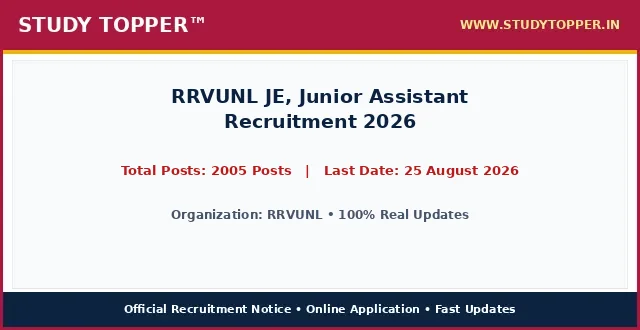
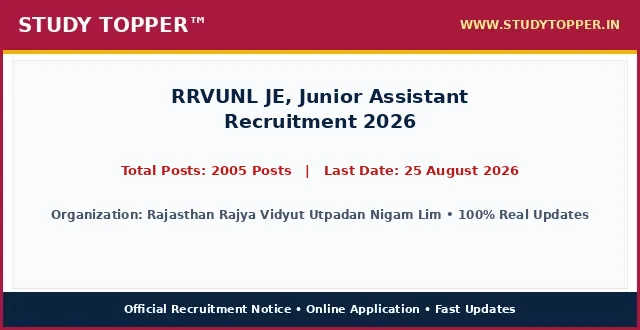
chore(lifecycle): daily auto-sort vacancies and update active dates

Changed region(s): [[0.0625, 0.6364, 0.9375, 0.6667]]

diff --git a/pages/rrvunl-je-junior-assistant-2026.html b/pages/rrvunl-je-junior-assistant-2026.html
@@ -987,12 +987,12 @@ ul.wp-block-latest-posts a:hover {
 <main class="site-main" id="main">
 <div class="gb-container gb-container-b39c368c">
 <h1 class="gb-headline gb-headline-e52a0102 gb-headline-text" style="font-size: 22px; font-weight: 700; color: #0000cd; text-align: left; margin: 8px 0 4px 0; line-height: 1.3; width: 100%; font-family: '-apple-system, BlinkMacSystemFont, 'Segoe UI', Roboto, 'Helvetica Neue', Arial, sans-serif', Times, serif, Hind, sans-serif;">RRVUNL JE, Junior Assistant Recruitment 2026</h1>
-<div class="gb-container gb-container-659bd175"><p style="color: #cd0808; font-weight: 700; font-size: 15px; margin: 2px 0 7px 0; text-align: left; font-family: '-apple-system, BlinkMacSystemFont, 'Segoe UI', Roboto, 'Helvetica Neue', Arial, sans-serif', Times, serif, Hind, sans-serif;">Post Date: August 22, 2026 12:36 PM</p></div>
-<p class="gb-headline gb-headline-550ae316 short_Details gb-headline-text" style="width: 100%; max-width: 100%; font-size: 16.8px; line-height: 1.55; color: #000000; text-align: justify; text-justify: inter-word; margin: 8px 0 14px 0; display: block; font-family: '-apple-system, BlinkMacSystemFont, 'Segoe UI', Roboto, 'Helvetica Neue', Arial, sans-serif', Times, serif, Hind, sans-serif;"><strong style="color: #0000cd;">RRVUNL</strong> has officially published the recruitment notice <strong style="color: #cd0808;">RRVUNL JE, Junior Assistant Recruitment 2026</strong> under notification number 2026. Online applications are invited for 2005 Posts across multiple departments and cadre positions. Interested candidates possessing the requisite educational qualifications and falling between 18 Years to 40 Years can complete their online registration before the application deadline of 25 August 2026. Applicants should read the eligibility criteria, category reservation rules, and exam scheme thoroughly before submitting applications.</p>
+<div class="gb-container gb-container-659bd175"><p style="color: #cd0808; font-weight: 700; font-size: 15px; margin: 2px 0 7px 0; text-align: left; font-family: '-apple-system, BlinkMacSystemFont, 'Segoe UI', Roboto, 'Helvetica Neue', Arial, sans-serif', Times, serif, Hind, sans-serif;">Post Date: August 22, 2026 12:46 PM</p></div>
+<p class="gb-headline gb-headline-550ae316 short_Details gb-headline-text" style="width: 100%; max-width: 100%; font-size: 16.8px; line-height: 1.55; color: #000000; text-align: justify; text-justify: inter-word; margin: 8px 0 14px 0; display: block; font-family: '-apple-system, BlinkMacSystemFont, 'Segoe UI', Roboto, 'Helvetica Neue', Arial, sans-serif', Times, serif, Hind, sans-serif;"><strong style="color: #0000cd;">Rajasthan Rajya Vidyut Utpadan Nigam Limited (RVUNL)</strong> has officially published the recruitment notice <strong style="color: #cd0808;">RRVUNL JE, Junior Assistant Recruitment 2026</strong> under notification number Official Notification 2026. Online applications are invited for 2005 Posts across multiple departments and cadre positions. Interested candidates possessing the requisite educational qualifications and falling between 18 Years to 40 Years can complete their online registration before the application deadline of 25 August 2026. Applicants should read the eligibility criteria, category reservation rules, and exam scheme thoroughly before submitting applications.</p>
 <div class="gb-container gb-container-9849916c"><div class="social-buttons-compact" style="display: flex; justify-content: flex-start; align-items: center; gap: 10px; margin: 10px 0 16px 0; width: 100%;"><a class="social-btn-compact wa" href="https://whatsapp.com/channel/0029Va9xyz" rel="noopener" style="background-color: #00d084; color: #ffffff; padding: 10px 18px; border-radius: 4px; text-decoration: none; font-weight: bold; font-size: 15.5px; display: inline-flex; align-items: center; justify-content: center; height: auto;" target="_blank">WhatsApp</a><a class="social-btn-compact tg" href="https://t.me/studytopperofficial" rel="noopener" style="background-color: #0088cc; color: #ffffff; padding: 10px 18px; border-radius: 4px; text-decoration: none; font-weight: bold; font-size: 15.5px; display: inline-flex; align-items: center; justify-content: center; height: auto;" target="_blank">Telegram</a></div></div>
 <div class="gb-container gb-container-f58e6ca1" style="border: 2px solid #5b032f; border-radius: 4px; overflow: hidden; margin: 15px 0 20px 0; background-color: #ffffff; width: 100%; box-sizing: border-box;">
 <h2 class="gb-headline gb-headline-2ca5a791 gb-headline-text" style="font-size: 16px; font-weight: 700; text-align: center; color: #ef0303; line-height: 1.3; padding: 6px 4px; margin: 0; background: #ffffff; font-family: '-apple-system, BlinkMacSystemFont, 'Segoe UI', Roboto, 'Helvetica Neue', Arial, sans-serif', Times, serif, Hind, sans-serif;">RRVUNL JE, Junior Assistant Recruitment 2026 &ndash; Latest Details &amp; Updates</h2>
-<h3 class="gb-headline gb-headline-7d5f86e8 gb-headline-text" style="font-size: 16px; font-weight: 600; text-align: center; color: #009703; line-height: 1.25; margin: 0; padding: 2px 4px 6px 4px; background: #ffffff; font-family: '-apple-system, BlinkMacSystemFont, 'Segoe UI', Roboto, 'Helvetica Neue', Arial, sans-serif', Times, serif, Hind, sans-serif;">RRVUNL : Details &amp; Summary</h3>
+<h3 class="gb-headline gb-headline-7d5f86e8 gb-headline-text" style="font-size: 16px; font-weight: 600; text-align: center; color: #009703; line-height: 1.25; margin: 0; padding: 2px 4px 6px 4px; background: #ffffff; font-family: '-apple-system, BlinkMacSystemFont, 'Segoe UI', Roboto, 'Helvetica Neue', Arial, sans-serif', Times, serif, Hind, sans-serif;">Rajasthan Rajya Vidyut Utpadan Nigam Limited (RVUNL) : Details &amp; Summary</h3>
 <p class="gb-headline gb-headline-79adf169 gb-headline-text" style="margin: 0 0 6px 0; font-family: '-apple-system, BlinkMacSystemFont, 'Segoe UI', Roboto, 'Helvetica Neue', Arial, sans-serif', Times, serif, Hind, sans-serif; text-align: center; font-size: 18px; font-weight: 700;"><a href="/" style="color: #0000ff; text-decoration: underline;">StudyTopper.in</a></p>
 
 <style id="st-post-boxes-responsive-css">
@@ -1025,7 +1025,7 @@ ul.wp-block-latest-posts a:hover {
     <div style="background-color: #5b032f; color: #ffffff; padding: 8px 10px; font-size: 20px; font-weight: 700; text-align: center; font-family: '-apple-system, BlinkMacSystemFont, 'Segoe UI', Roboto, 'Helvetica Neue', Arial, sans-serif', Times, serif, Hind, sans-serif;">Important Dates</div>
     <div style="padding: 12px 14px; background-color: #ffffff;">
       <ul style="padding-left: 20px; margin: 0; list-style-type: disc; text-align: left; font-size: 14pt; line-height: 1.6; font-family: '-apple-system, BlinkMacSystemFont, 'Segoe UI', Roboto, 'Helvetica Neue', Arial, sans-serif', Times, serif, Hind, sans-serif;">
-        <li><span style="font-size: 14pt;">Application Begin : <strong>As per Official Notification</strong></span></li><li><span style="font-size: 14pt;">Last Date for Apply Online : <span style="color: #ff0000;"><strong>25 August 2026</strong></span></span></li><li><span style="font-size: 14pt;">Pay Exam Fee Last Date : <span style="color: #ff0000;"><strong>25 August 2026</strong></span></span></li><li><span style="font-size: 14pt;">Exam Date : <strong>As per Schedule</strong></span></li><li><span style="font-size: 14pt;">Admit Card Available : <strong>Before Examination</strong></span></li>
+        <li><span style="font-size: 14pt;">Application Begin : <strong>Check Official Notification</strong></span></li><li><span style="font-size: 14pt;">Last Date for Apply Online : <span style="color: #ff0000;"><strong>25 August 2026</strong></span></span></li><li><span style="font-size: 14pt;">Pay Exam Fee Last Date : <span style="color: #ff0000;"><strong>25 August 2026</strong></span></span></li><li><span style="font-size: 14pt;">Exam Date : <strong>As per Schedule</strong></span></li>
       </ul>
     </div>
   </div>
@@ -1034,7 +1034,7 @@ ul.wp-block-latest-posts a:hover {
     <div style="background-color: #5b032f; color: #ffffff; padding: 8px 10px; font-size: 20px; font-weight: 700; text-align: center; font-family: '-apple-system, BlinkMacSystemFont, 'Segoe UI', Roboto, 'Helvetica Neue', Arial, sans-serif', Times, serif, Hind, sans-serif;">Application Fee</div>
     <div style="padding: 12px 14px; background-color: #ffffff;">
       <ul style="padding-left: 20px; margin: 0; list-style-type: disc; text-align: left; font-size: 14pt; line-height: 1.6; font-family: '-apple-system, BlinkMacSystemFont, 'Segoe UI', Roboto, 'Helvetica Neue', Arial, sans-serif', Times, serif, Hind, sans-serif;">
-        <li><span style="font-size: 14pt;">General / OBC / EWS : <strong>Check Official Notification</strong></span></li><li><span style="font-size: 14pt;">SC / ST / PH : <strong>Check Official Notification</strong></span></li><li><span style="font-size: 14pt;">Payment Mode : <strong>Online Fee Mode via Net Banking, Debit/Credit Card or Offline Challan</strong></span></li>
+        <li><span style="font-size: 14pt;">General / OBC / EWS : <strong>Check Official Notification</strong></span></li><li><span style="font-size: 14pt;">SC / ST / PH : <strong>Check Official Notification</strong></span></li><li><span style="font-size: 14pt;">Payment Mode : <strong>Online / Offline Fee Mode as per Notification</strong></span></li>
       </ul>
       <div style="margin-top: 10px; font-size: 14pt; line-height: 1.5; color: #000000; border-top: 1px dashed #ccc; padding-top: 8px; font-family: '-apple-system, BlinkMacSystemFont, 'Segoe UI', Roboto, 'Helvetica Neue', Arial, sans-serif', Times, serif, Hind, sans-serif;">
         <strong>Mode of Payment / Access:</strong> Online via Net Banking, Debit Card, Credit Card, UPI or Free Candidate Portal.
@@ -1047,10 +1047,10 @@ ul.wp-block-latest-posts a:hover {
 <div class="st-grid-row" style="display: flex; flex-wrap: wrap; width: 100%; border-top: 2px solid #5b032f; margin: 0; padding: 0; box-sizing: border-box;">
   <!-- Left Col: Age Limits -->
   <div class="st-col-half st-col-border-right" style="box-sizing: border-box; vertical-align: top;">
-    <div style="background-color: #046132; color: #ffffff; padding: 8px 10px; font-size: 17px; font-weight: 700; text-align: center; font-family: '-apple-system, BlinkMacSystemFont, 'Segoe UI', Roboto, 'Helvetica Neue', Arial, sans-serif', Times, serif, Hind, sans-serif;">RRVUNL : Age Limits As On 01/08/2026</div>
+    <div style="background-color: #046132; color: #ffffff; padding: 8px 10px; font-size: 17px; font-weight: 700; text-align: center; font-family: '-apple-system, BlinkMacSystemFont, 'Segoe UI', Roboto, 'Helvetica Neue', Arial, sans-serif', Times, serif, Hind, sans-serif;">Rajasthan Rajya Vidyut Utpadan Nigam Limited (RVUNL) : Age Limits As On 01/08/2026</div>
     <div style="padding: 12px 14px; background-color: #ffffff;">
       <ul style="padding-left: 20px; margin: 0; list-style-type: disc; text-align: left; font-size: 14pt; line-height: 1.6; font-family: '-apple-system, BlinkMacSystemFont, 'Segoe UI', Roboto, 'Helvetica Neue', Arial, sans-serif', Times, serif, Hind, sans-serif;">
-        <li><span style="font-size: 14pt;">Minimum Age : <strong>18 Years (As per post rules)</strong></span></li><li><span style="font-size: 14pt;">Maximum Age : <strong>40 Years (As per post rules)</strong></span></li><li><span style="font-size: 14pt;">Age Relaxation : <strong>Age Relaxation Extra as per RRVUNL Recruitment Rules.</strong></span></li>
+        <li><span style="font-size: 14pt;">Minimum Age : <strong>18 Years (As per post rules)</strong></span></li><li><span style="font-size: 14pt;">Maximum Age : <strong>40 Years (As per post rules)</strong></span></li><li><span style="font-size: 14pt;">Age Relaxation : <strong>Age Relaxation Extra as per Rajasthan Rajya Vidyut Utpadan Nigam Limited (RVUNL) Recruitment Rules.</strong></span></li>
       </ul>
     </div>
   </div>
@@ -1109,10 +1109,10 @@ ul.wp-block-latest-posts a:hover {
 <table style="border-collapse: collapse; width: 100%;">
 <tbody>
 <tr>
-<td style="width: 100%; text-align: center;"><span style="background-color: #000080; color: #ffffff; font-size: 14pt; font-weight: bold; display: block; padding: 6px;"> How to Fill RRVUNL Online Application Form </span></td>
+<td style="width: 100%; text-align: center;"><span style="background-color: #000080; color: #ffffff; font-size: 14pt; font-weight: bold; display: block; padding: 6px;"> How to Fill Rajasthan Rajya Vidyut Utpadan Nigam Limited (RVUNL) Online Application Form </span></td>
 </tr>
 <tr>
-<td style="width: 100%;"><ol style="margin:0; padding-left:18px; text-align: left !important; list-style-position: outside !important"><li style="margin-bottom:6px; text-align: left !important;">Candidate must read the complete official notification issued by RRVUNL before applying.</li><li style="margin-bottom:6px; text-align: left !important;">Collect and verify all essential documents including Educational Proof, ID Proof, Address Details, and Basic Details.</li><li style="margin-bottom:6px; text-align: left !important;">Scan all necessary documents accurately: Passport Size Photograph, Signature, ID Proof, and Category Certificate.</li><li style="margin-bottom:6px; text-align: left !important;">Click on the 'Apply Online' link given in the Important Links section below on StudyTopper.</li><li style="margin-bottom:6px; text-align: left !important;">Fill all required personal, educational, and communication details in the application form carefully.</li><li style="margin-bottom:6px; text-align: left !important;">Review the application form preview thoroughly before final submission.</li><li style="margin-bottom:6px; text-align: left !important;">Pay the prescribed examination fee through online payment gateway if applicable.</li><li style="margin-bottom:6px; text-align: left !important;">Take a clean printout of the final submitted application form for future reference.</li><li style="margin-bottom:6px; text-align: left !important;">Resize candidate photograph and signature accurately using the <a href="https://indtool.in" rel="noopener" target="_blank"><strong>StudyTopper Tools</strong></a> image resizer at indtool.in.</li></ol></td>
+<td style="width: 100%;"><ol style="margin:0; padding-left:18px; text-align: left !important; list-style-position: outside !important"><li style="margin-bottom:6px; text-align: left !important;">Read the official recruitment notification carefully before applying.</li><li style="margin-bottom:6px; text-align: left !important;">Keep all basic documents ready: ID Proof, Address Details, Basic Details.</li><li style="margin-bottom:6px; text-align: left !important;">Ready your scanned documents like Photo, Signature, ID Proof, etc.</li><li style="margin-bottom:6px; text-align: left !important;">Click on the 'Apply Online' link given in the Important Links section below.</li><li style="margin-bottom:6px; text-align: left !important;">Fill out all the columns in the application form accurately.</li><li style="margin-bottom:6px; text-align: left !important;">Pay the required application fee if applicable.</li><li style="margin-bottom:6px; text-align: left !important;">Take a printout of the final submitted application form.</li><li style="margin-bottom:6px; text-align: left !important;">Resize candidate photograph and signature accurately using the <a href="https://indtool.in" rel="noopener" target="_blank"><strong>StudyTopper Tools</strong></a> image resizer at indtool.in.</li></ol></td>
 </tr>
 </tbody>
 </table>
@@ -1120,7 +1120,7 @@ ul.wp-block-latest-posts a:hover {
 <table style="border-collapse: collapse; width: 100%;">
 <tbody>
 <tr>
-<td style="width: 100%; text-align: center;"><span style="background-color: #000080; color: #ffffff; font-size: 14pt;"><strong><span style="color: #ffffff;"> RRVUNL Recruitment 2026 : Mode Of Selection </span></strong></span></td>
+<td style="width: 100%; text-align: center;"><span style="background-color: #000080; color: #ffffff; font-size: 14pt;"><strong><span style="color: #ffffff;"> Rajasthan Rajya Vidyut Utpadan Nigam Limited (RVUNL) Recruitment 2026 : Mode Of Selection </span></strong></span></td>
 </tr>
 <tr>
 <td style="width: 100%;">
